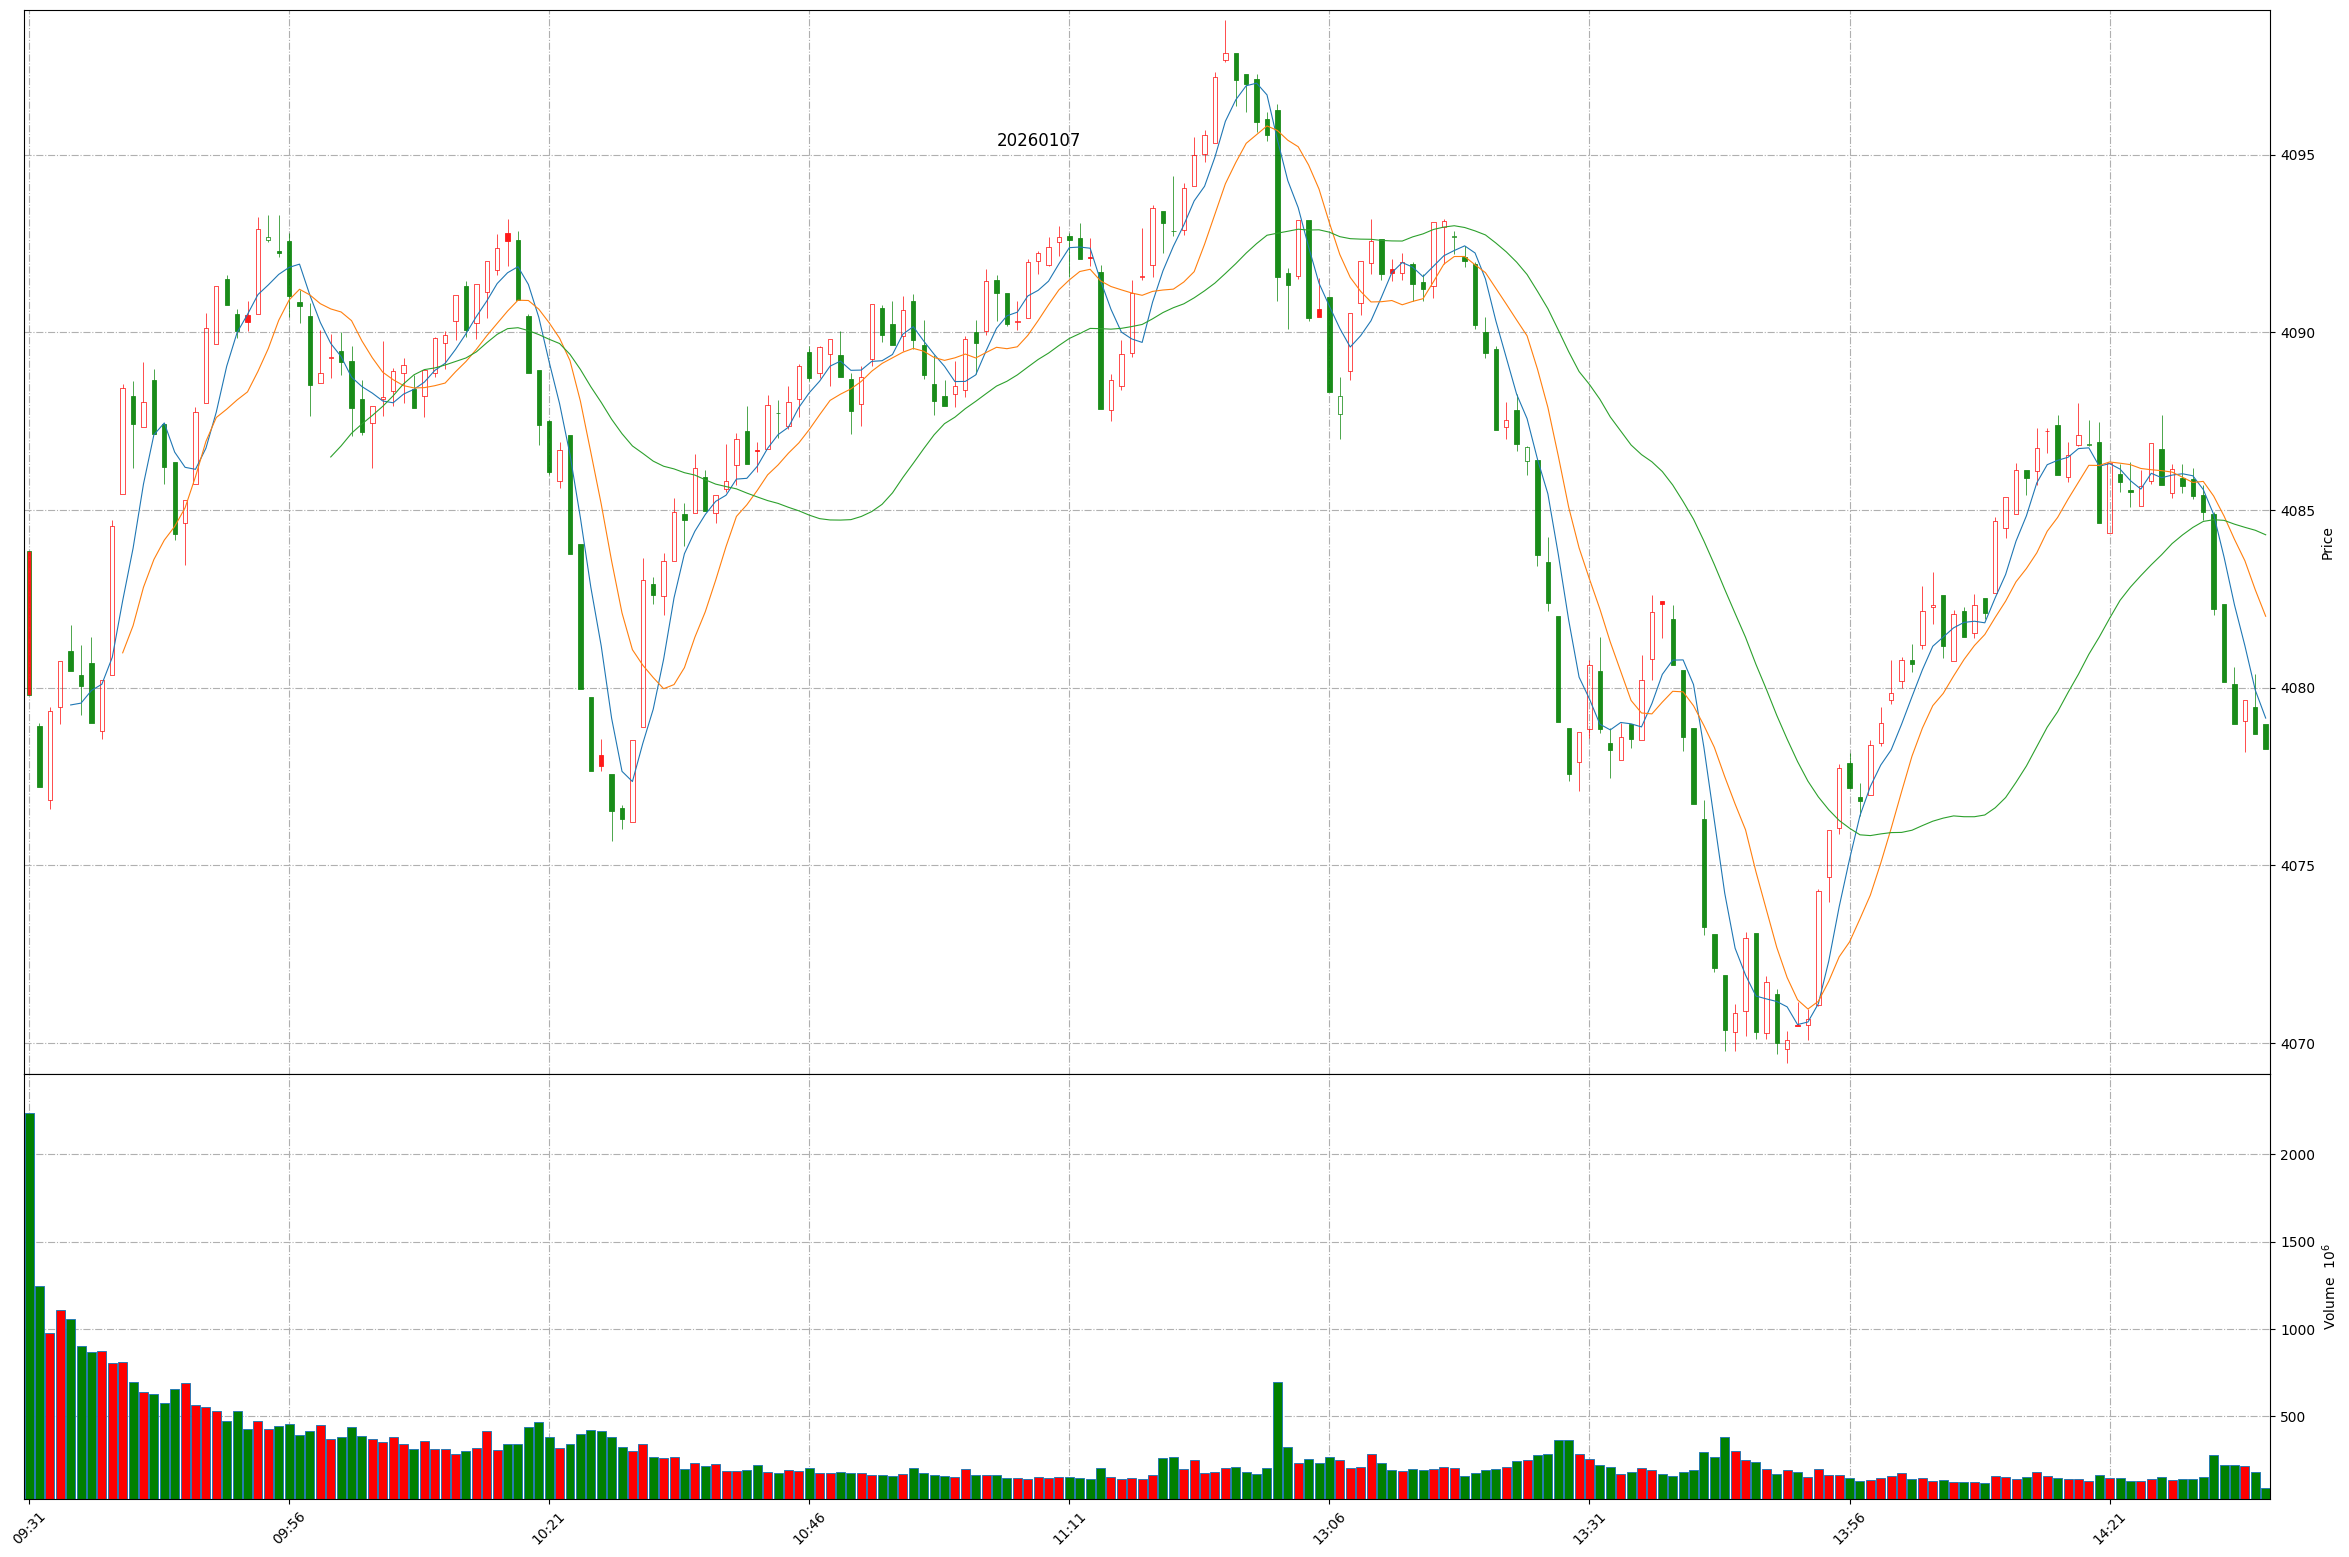
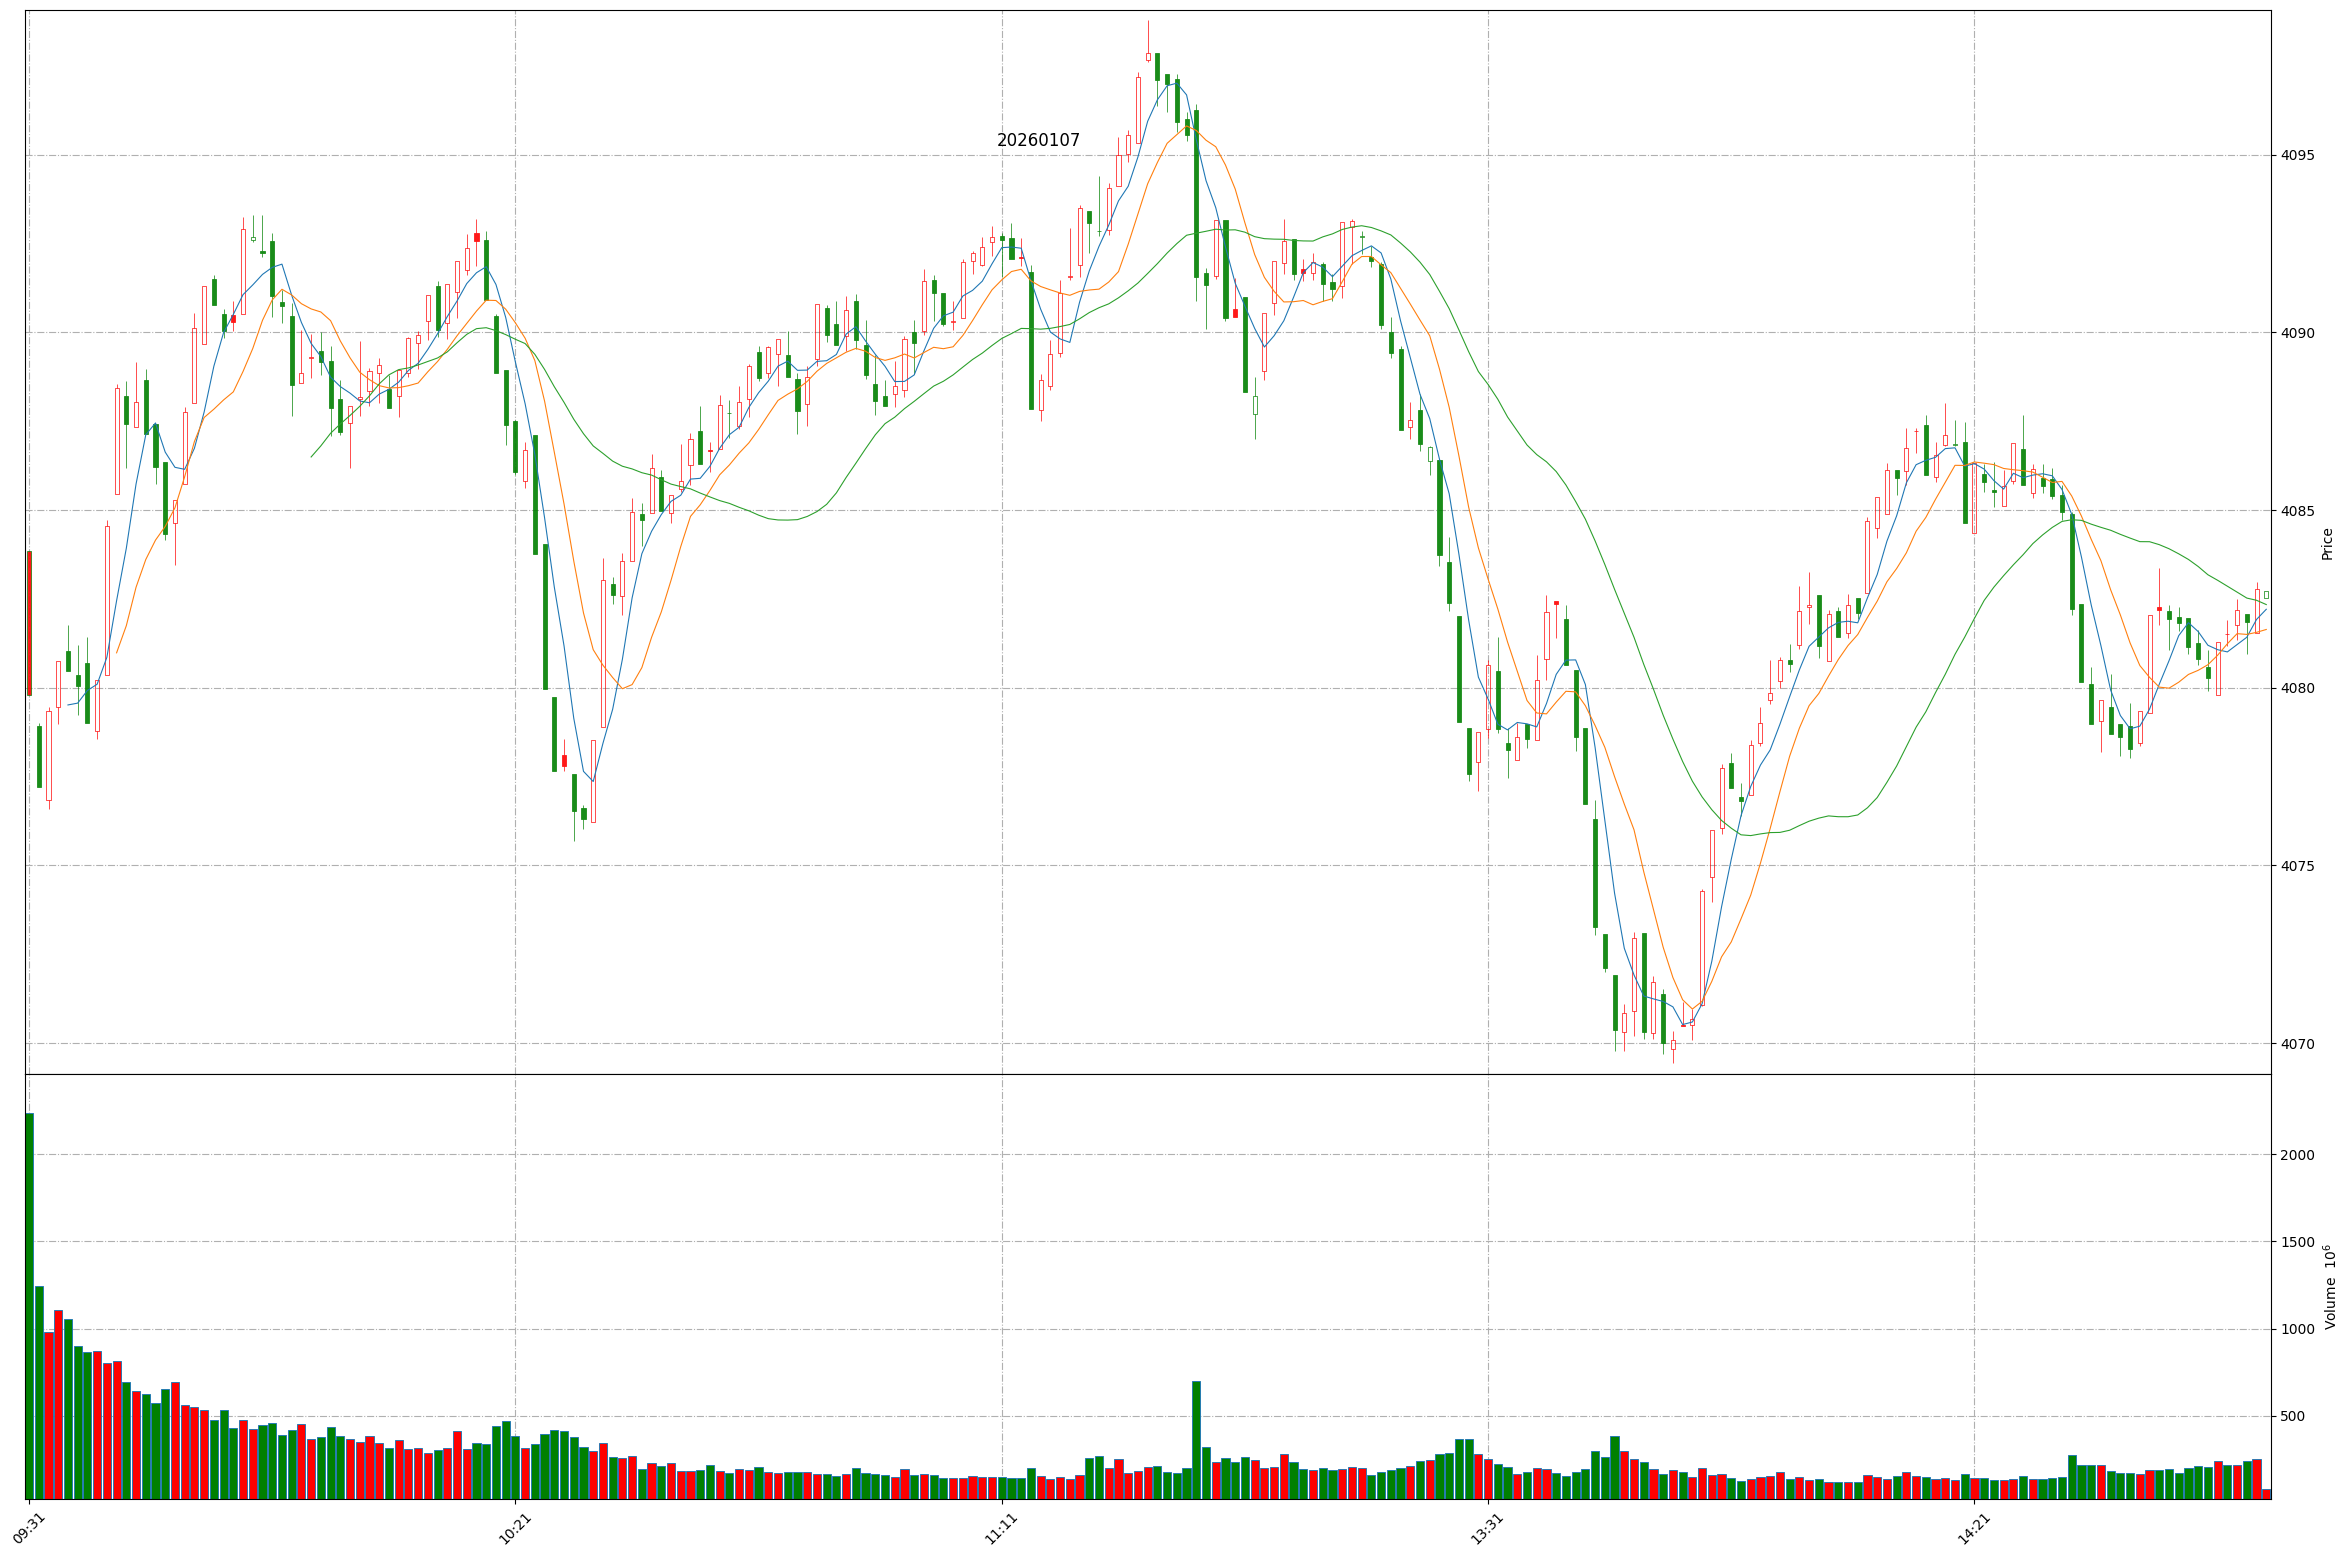
Github action update at 2026-01-07 14:50:35.

diff --git a/README.md b/README.md
@@ -1,11 +1,11 @@
 
 # Daily-A-share-market-quotes 每日 A 股指数（5min 更新）- 20260107
 
-### 上证指数 20260107 14:35
+### 上证指数 20260107 14:50
 ![](./fig/2026/1/20260107-sh000001.png)
 
-### 深证成指 20260107 14:35
+### 深证成指 20260107 14:50
 ![](./fig/2026/1/20260107-sz399001.png)
 
-### 北证50 20260107 14:35
+### 北证50 20260107 14:50
 ![](./fig/2026/1/20260107-bj899050.png)
